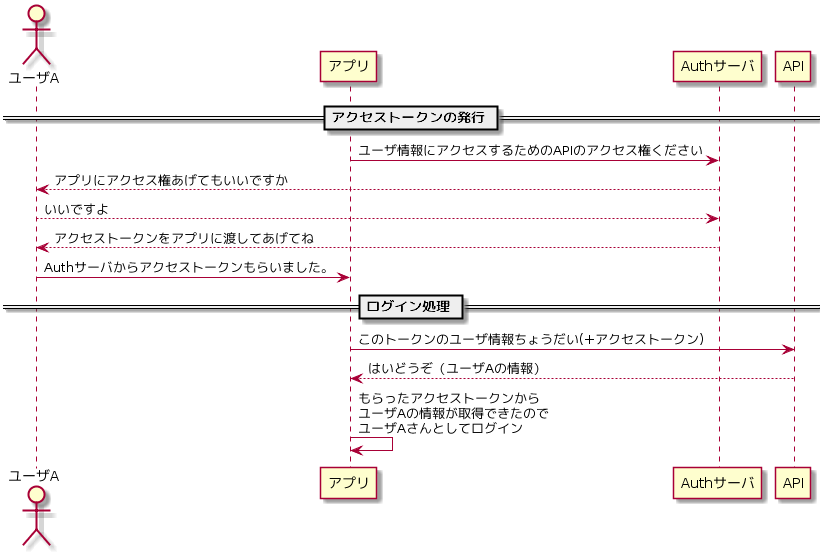
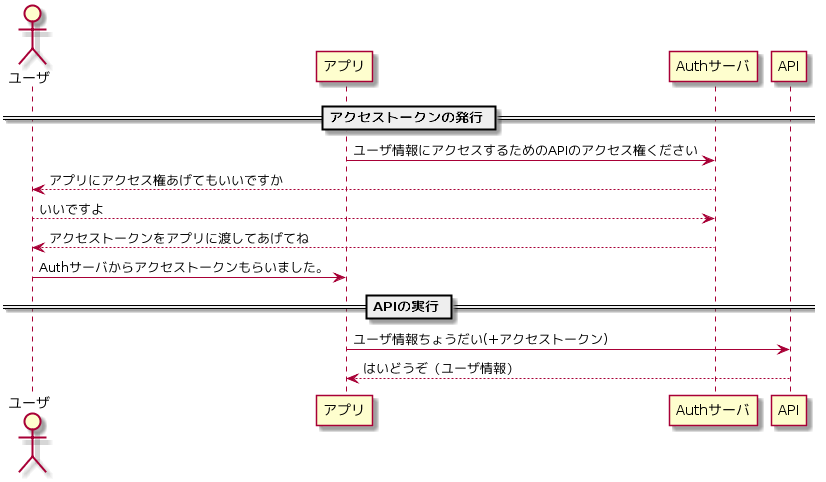
No.15 官僚

diff --git a/backend-roadmap/15-Authentication-Authorization-Methodologies.md b/backend-roadmap/15-Authentication-Authorization-Methodologies.md
@@ -1,4 +1,4 @@
-# Authentication/Authorization Methodologies
+# 15. Authentication/Authorization Methodologies
 
 ## 目標
 
@@ -165,7 +165,9 @@ source: https://dev.classmethod.jp/security/authentication-and-authorization/
 
 - アプリのユーザごとに認可を行う方法
 
-[RFC 6749](https://tools.ietf.org/html/rfc6749)
+[OAuth 1.0 : RFC 5849](https://tools.ietf.org/html/rfc5849)
+
+[OAuth 2.0 : RFC 6749](https://tools.ietf.org/html/rfc6749)
 
 ![oauth](/backend-roadmap/images/oauth.png)
 
@@ -179,12 +181,48 @@ todo: 仕様の詳細についてまとめる
 
 source: https://tech-lab.sios.jp/archives/8651
 
+OAuth に認証の機能を追加した仕様
+
+- 単なる OAuth を認証に用いるのは危ない
+  - トークン置換攻撃 など
+- OpenID Connect は、アクセストークンと一緒に ID トークンを返却
+
+source: [単なる OAuth 2.0 を認証に使うと、車が通れるほどのどでかいセキュリティー・ホールができる](https://www.sakimura.org/2012/02/1487/)
+
 [OpenID Connect 仕様 日本語訳](https://openid-foundation-japan.github.io/openid-connect-core-1_0.ja.html)
 
 わかりやすい記事
 
 - [TECK.LAB - 多分わかりやすい OpenID Connect](https://tech-lab.sios.jp/archives/8651)
-- [Qiita@shoichiimamura - OAuth2.0とOpenID Connectの概要](https://qiita.com/shoichiimamura/items/57129d12868bbd81f48e)
+- [Qiita@shoichiimamura - OAuth2.0とOpenID Connect の概要](https://qiita.com/shoichiimamura/items/57129d12868bbd81f48e)
 - [Qiita@TakahikoKawasaki - 一番分かりやすい OpenID Connect の説明](https://qiita.com/TakahikoKawasaki/items/498ca08bbfcc341691fe)
 
 ## 認可を用いた機能の実装
+
+Twitter に認可した後、Twitter API の [タイムライン取得 API](https://developer.twitter.com/en/docs/tweets/timelines/api-reference/get-statuses-home_timeline) を利用する。
+
+### Twitter API
+
+Twitter の認証が必要な API は、アプリケーションレベルとユーザレベルで認証方法が異なる。
+
+- アプリケーションレベル: OAuth 2.0
+- ユーザレベル: OAuth 1.0
+
+### 制作物
+
+[rails-twitter-api-client](https://github.com/kazu-horie/rails-twitter-api-client)
+
+### 関連 GEM
+
+- [oauth](https://github.com/oauth-xx/oauth-ruby) (使用)
+  - OAuth 1.0 を提供
+- [oauth2](https://github.com/oauth-xx/oauth2)
+  - OAuth 2.0 を提供
+- [omniauth](https://github.com/omniauth/omniauth)
+  - 各認可プロトコルへの共通インターフェースを提供
+  - OAuth 1.0, OAuth 2.0, OpenID Connect の差異を吸収してくれる
+
+### 参考
+
+- [Qiita@riocampos - OAuth gemだけでTwitter APIを使ってみる](https://qiita.com/riocampos/items/5aaa636866af885ef1ac)
+- [hawksnowlog - Twitter の OAuth を使ってログイン機能を作ってみた](https://hawksnowlog.blogspot.com/2018/10/twitter-oauth-with-sinatra.html)

diff --git a/backend-roadmap/README.md b/backend-roadmap/README.md
@@ -16,3 +16,4 @@
 1. [NoSQL を学ぶ](./12-learn-a-nosql-database.md)
 1. [キャッシュ](./13-caching.md)
 1. [RESTful API を作成する](./14-creating-restful-apis.md)
+1. [認証・認可の方法](15-Authentication-Authorization-Methodologies.md)
